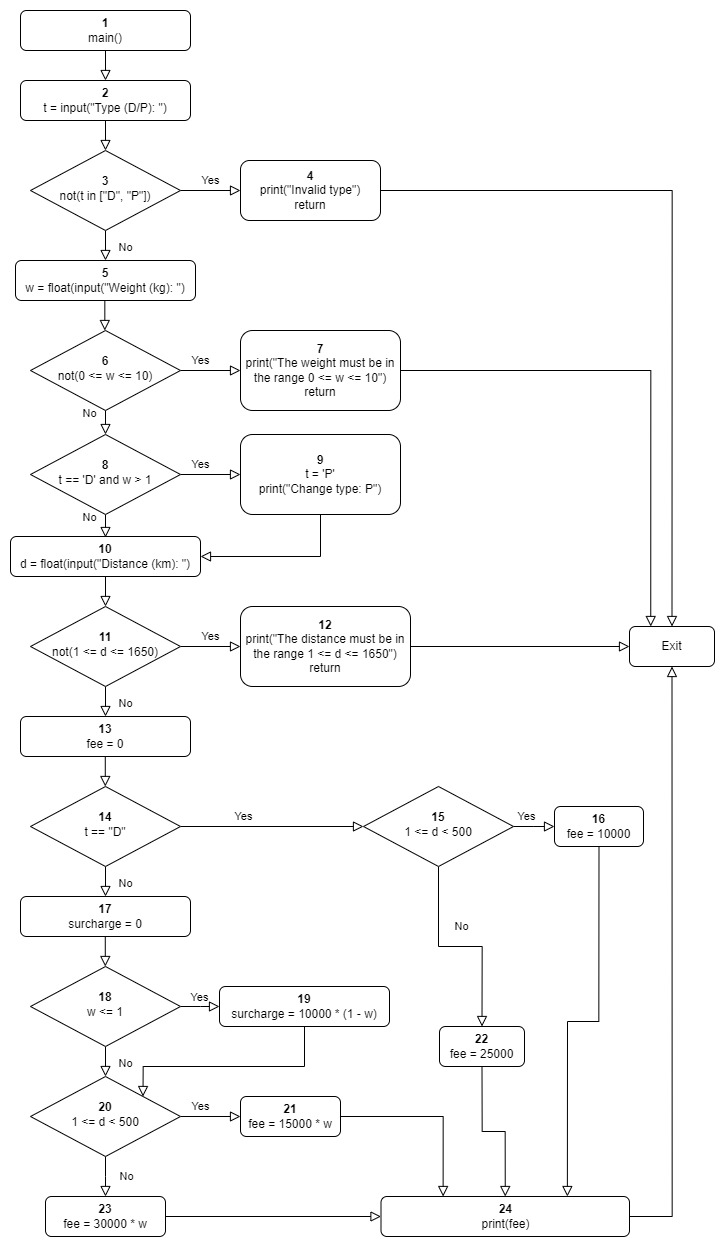
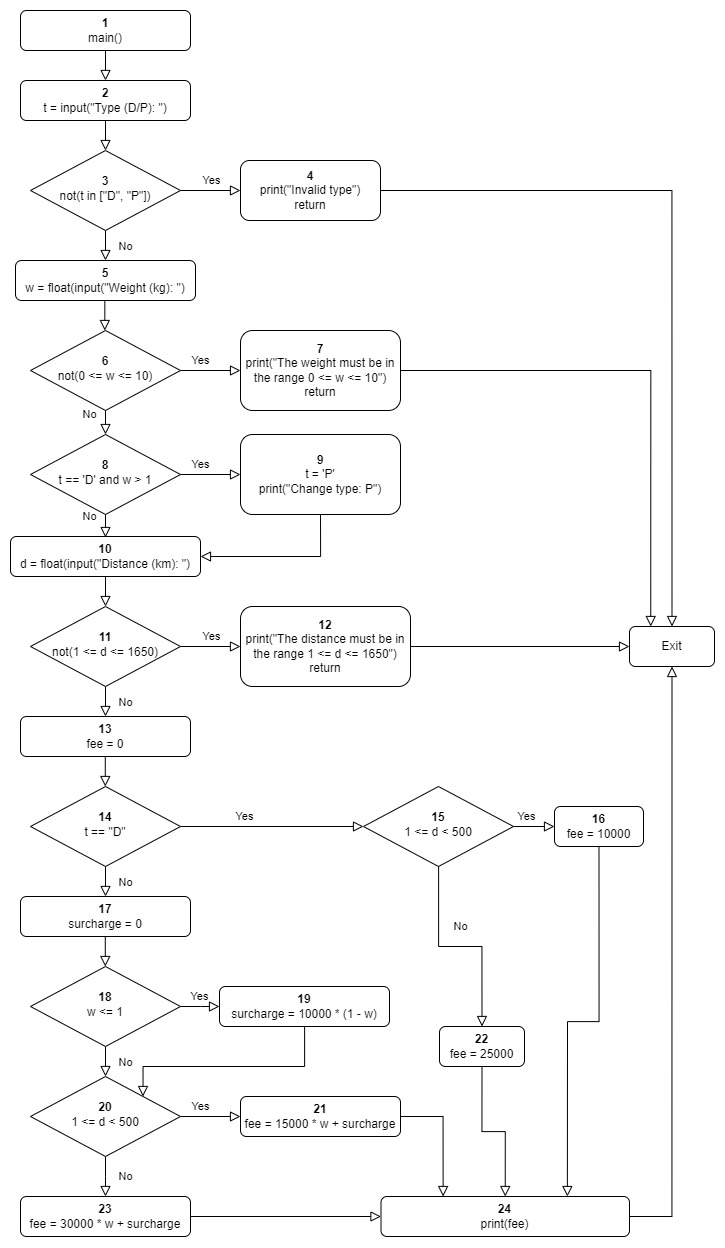
test kiem thu dong du lieu

diff --git a/test_kiem_thu_dong_du_lieu.py b/test_kiem_thu_dong_du_lieu.py
@@ -1,0 +1,73 @@
+import unittest
+from unittest.mock import patch
+from Test import main
+
+class TestTransportFee(unittest.TestCase):
+    @patch('builtins.input', side_effect=['L', '1', '1'])
+    @patch('builtins.print')
+    def test_1(self, mock_print, mock_input):
+        main()
+        mock_print.assert_called_with("Invalid type")
+
+    @patch('builtins.input', side_effect=['D', '1', '1'])
+    @patch('builtins.print')
+    def test_2(self, mock_print, mock_input):
+        main()
+        mock_print.assert_called_with(10000)
+    
+    @patch('builtins.input', side_effect=['D', '-1', '1'])
+    @patch('builtins.print')
+    def test_3(self, mock_print, mock_input):
+        main()
+        mock_print.assert_called_with("The weight must be in the range 0 ≤ w ≤ 10")
+
+    @patch('builtins.input', side_effect=['D', '1', '500'])
+    @patch('builtins.print')
+    def test_4(self, mock_print, mock_input):
+        main()
+        mock_print.assert_called_with(25000)
+
+    @patch('builtins.input', side_effect=['D', '2', '1'])
+    @patch('builtins.print')
+    def test_5(self, mock_print, mock_input):
+        main()
+        mock_print.assert_called_with(30000)
+
+    @patch('builtins.input', side_effect=['D', '2', '-1'])
+    @patch('builtins.print')
+    def test_6(self, mock_print, mock_input):
+        main()
+        mock_print.assert_called_with("The distance must be in the range 1 ≤ d ≤ 1650")
+
+    @patch('builtins.input', side_effect=['P', '0.1', '1'])
+    @patch('builtins.print')
+    def test_7(self, mock_print, mock_input):
+        main()
+        mock_print.assert_called_with(10500)
+
+    @patch('builtins.input', side_effect=['P', '0.1', '500'])
+    @patch('builtins.print')
+    def test_8(self, mock_print, mock_input):
+        main()
+        mock_print.assert_called_with(12000)
+
+    @patch('builtins.input', side_effect=['P', '2', '1'])
+    @patch('builtins.print')
+    def test_9(self, mock_print, mock_input):
+        main()
+        mock_print.assert_called_with(30000)
+    
+    @patch('builtins.input', side_effect=['P', '2', '-1'])
+    @patch('builtins.print')
+    def test_10(self, mock_print, mock_input):
+        main()
+        mock_print.assert_called_with("The distance must be in the range 1 ≤ d ≤ 1650")
+
+    @patch('builtins.input', side_effect=['P', '2', '500'])
+    @patch('builtins.print')
+    def test_11(self, mock_print, mock_input):
+        main()
+        mock_print.assert_called_with(60000)
+
+if __name__ == '__main__':
+    unittest.main()
